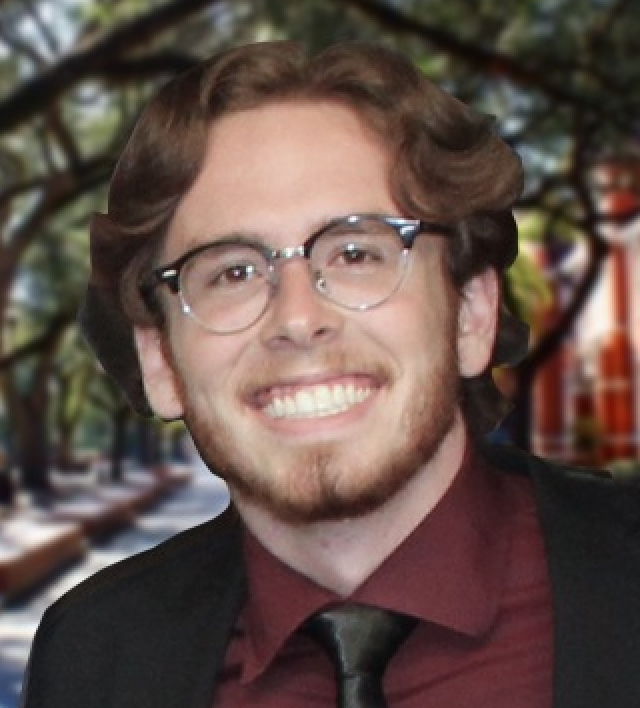
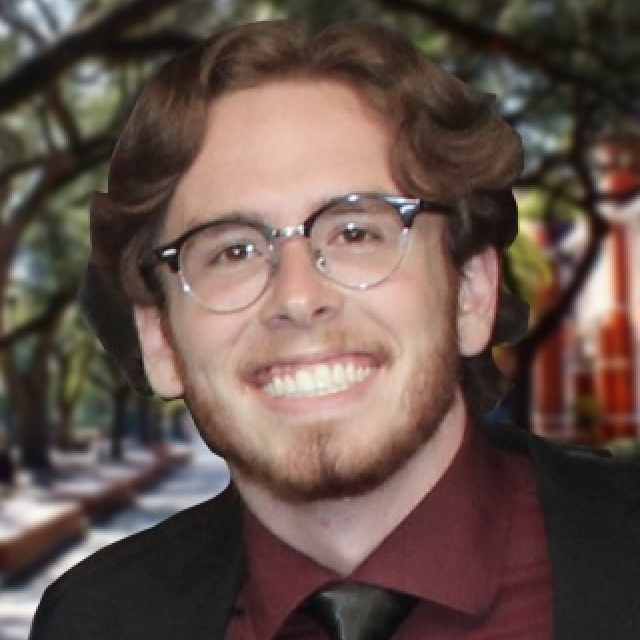
added new pictures

diff --git a/Saucier720-app/src/app/homepage/FEC/landing-page/FEC/developers/developers.component.ts b/Saucier720-app/src/app/homepage/FEC/landing-page/FEC/developers/developers.component.ts
@@ -21,10 +21,10 @@ export class DevelopersComponent {
       linkedin: 'https://www.linkedin.com/in/rileycleavenger',
     },
     {
-      picture: '../../../../assets/images/dev-profile-pictures/tyler-dev-profile.png',
+      picture: '../../../../assets/images/dev-profile-pictures/tyler-dev-profile.jpeg',
       name: 'Tyler Metz',
-      github: 'https://github.com/janesmith',
-      linkedin: 'https://www.linkedin.com/in/janesmith',
+      github: 'https://github.com/TylerMetz',
+      linkedin: 'https://www.linkedin.com/in/tyler-metz-08146b221/',
     },
     // Add more developer profiles here...
   ];
